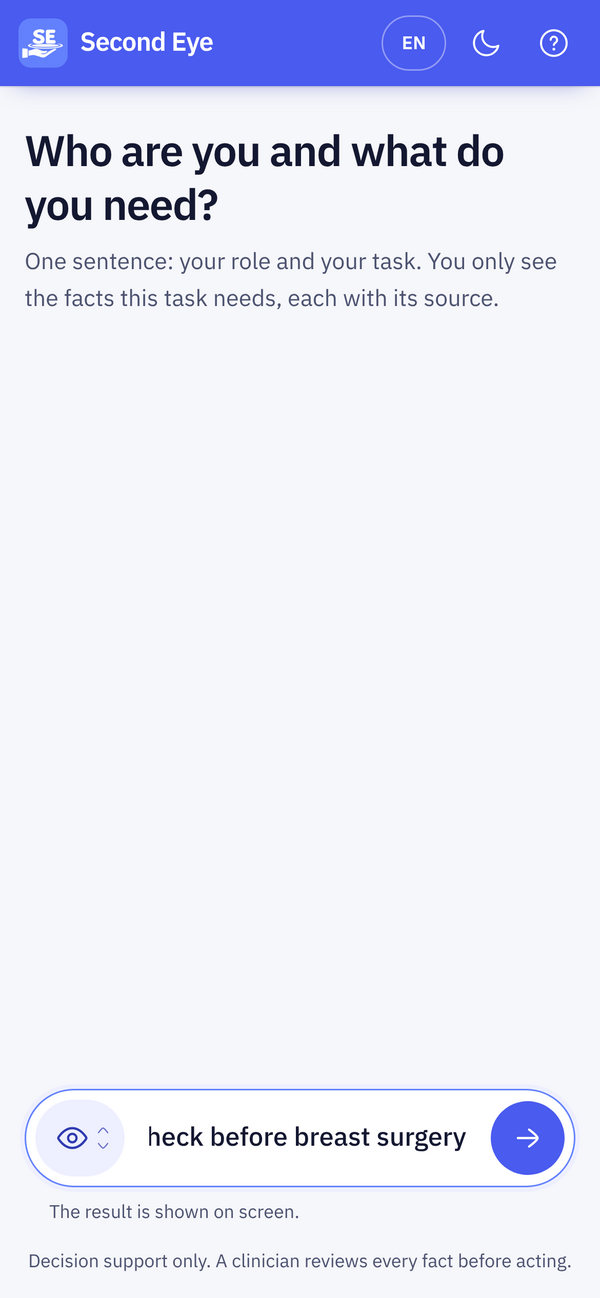
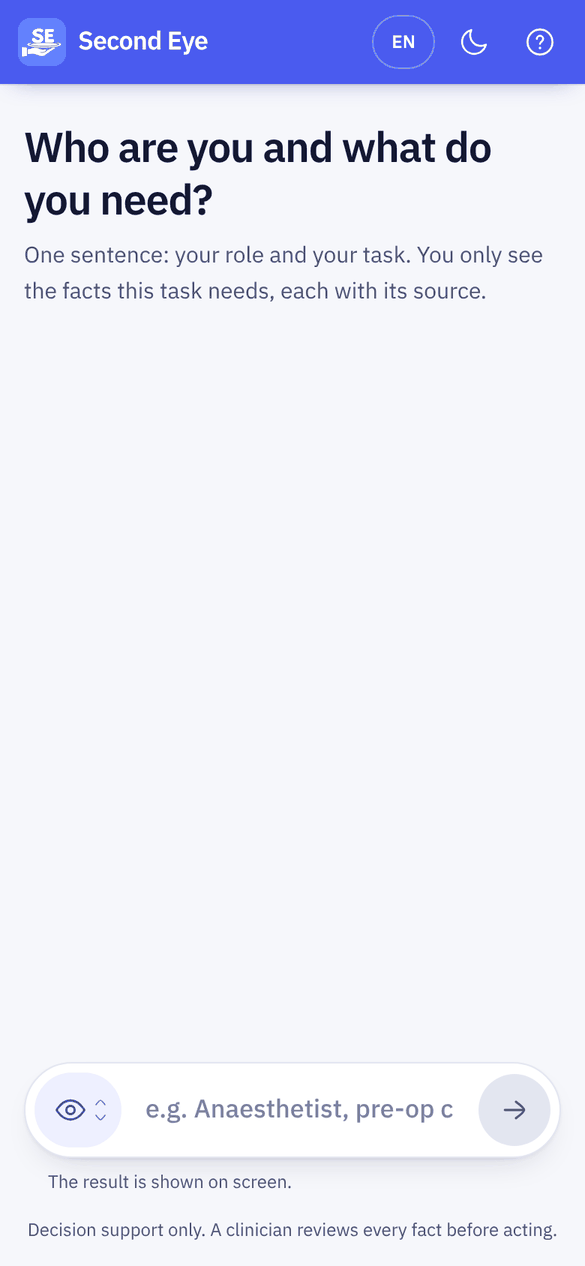
README: current app, new screenshots, current architecture and results
Claude-Session: https://claude.ai/code/session_01DiMMcW31vEVE7AEqAcUciP

diff --git a/README.md b/README.md
@@ -28,7 +28,7 @@ Second Eye answers first, in a sentence or two. Every value comes from the lette
 
 ## About
 
-Second Eye is a task-based reader for clinical records, built at the AIM Austria hackathon (Track 1, clinical documentation). It reads a patient's German letters once, keeps only facts it can quote word for word, and then answers each clinician's task from that verified store. It never writes to the record, and code, not a model, decides what is missing and where the letters disagree.
+Second Eye is a task-based reader for clinical records, built at the AIM Austria hackathon (Track 1, clinical documentation). It reads a patient's German letters once and keeps only facts it can quote word for word. A clinician then types one sentence, such as *"Anaesthetist, pre-op check before quadrantectomy"*, and gets a one- or two-sentence answer with numbered source chips; a tap opens the original letter with the passage highlighted. It never writes to the record, and code, not a model, decides what is missing and where the letters disagree.
 
 **Live app:** <https://second-look-1433.onrender.com>
 
@@ -36,87 +36,80 @@ Second Eye is a task-based reader for clinical records, built at the AIM Austria
 
 A patient's record is a pile of letters, and each letter copies the last one. Errors travel from letter to letter (a left-sided finding becomes right-sided), and facts quietly fall out of the newest letter. An anaesthetist, a surgeon and an emergency physician each need different facts from the same pile, and none of them has time to read eight letters.
 
-## What Second Eye does
+## What you see
 
-Type *"Anaesthetist, pre-op check before breast surgery"* and the screen opens with:
+- **The answer, first.** One or two sentences with numbered sources [1] [2]. Tap a number and the letter opens with the passage highlighted.
+- **"Not documented" when something is missing.** Decided by code, never by a model, and shown in the answer itself ("Not documented in the letters: kidney function").
+- **Contradictions are flagged** next to the value they affect, with both passages one tap away.
+- **"Show more"** opens the key facts, details (trends, medication changes, calculated values) and the history of dated entries.
+- **No task, no data.** A greeting such as "hi" gets only a prompt to describe the task, with no patient information.
 
-- **The answer, first.** One or two sentences with numbered sources [1] [2]. Tap a number and the German letter opens with the passage highlighted.
-- **What is missing, said out loud.** "Not documented", or for a specific question "Nothing found" with the words that were searched, decided by code, never by a model.
-- **Where the record disagrees with itself.** Contradictions between letters with both passages side by side, facts the latest letter dropped, follow-ups that were never closed.
-
-Everything else is one tap away: **Show more** for key facts and the full fact list, **Details** for trends, medication changes and calculated values, **History** for every dated entry. Ask a specific question ("did she ever fall?") and it is answered first. The app runs in English or German, light or dark, and can read the answer aloud.
+English or German, light or dark, and the answer can be read aloud. Without an API key the app still works: the rules path produces the answers from templates.
 
 ## Screens
 
+Phone, 390 × 844. Captured from the running app with no API key (the template answer path) on the organisers' synthetic record; the full letters are not in this repository.
+
 <table>
   <tr>
-    <td width="25%" align="center"><img src="docs/media/screenshots/01-start.png" alt="Start screen: one free-text field, 'Who are you and what do you need?'"><br><sub>One sentence, as typed</sub></td>
-    <td width="25%" align="center"><img src="docs/media/screenshots/02-answer.png" alt="Results: the answer sentence with numbered sources, then Show more"><br><sub>The answer first, with sources</sub></td>
-    <td width="25%" align="center"><img src="docs/media/screenshots/03-more.png" alt="Show more: key facts, contradiction and fact list"><br><sub>Show more: key facts and conflicts</sub></td>
-    <td width="25%" align="center"><img src="docs/media/screenshots/04-source.png" alt="Source viewer with the cited passage highlighted in the German letter"><br><sub>Every value opens its passage</sub></td>
+    <td width="33%" align="center"><img src="docs/media/screenshots/01-start.png" alt="Start screen with the Second Eye logo and a single text box: Who are you and what do you need?"><br><sub>Start: one text box</sub></td>
+    <td width="33%" align="center"><img src="docs/media/screenshots/02-answer-gentamicin.png" alt="Answer to 'Emergency doctor, I'm about to give IV gentamicin': one sentence with two source chips, and 'Not documented in the letters: kidney function'"><br><sub>"Emergency doctor, about to give IV gentamicin"</sub></td>
+    <td width="33%" align="center"><img src="docs/media/screenshots/03-answer-preop.png" alt="Answer to 'Anaesthetist, pre-op check before quadrantectomy': one answer with four numbered source chips and a Show more button"><br><sub>"Anaesthetist, pre-op check before quadrantectomy"</sub></td>
   </tr>
   <tr>
-    <td width="25%" align="center"><img src="docs/media/screenshots/05-details-dark.png" alt="Details in dark mode: weight and creatinine trends with calculated changes"><br><sub>Details: trends and calculations</sub></td>
-    <td width="25%" align="center"><img src="docs/media/screenshots/06-history.png" alt="History: every dated entry, newest first, each with its source"><br><sub>History: every dated entry</sub></td>
-    <td width="25%" align="center"><img src="docs/media/screenshots/07-help-dark.png" alt="Help: questions and answers about the labels"><br><sub>Help: what the labels mean</sub></td>
-    <td width="25%" align="center"><img src="docs/media/screenshots/08-not-authorised.png" alt="Not authorised: a neighbour asking about the patient gets no data"><br><sub>No clinical role, no data (rules path)</sub></td>
+    <td width="33%" align="center"><img src="docs/media/screenshots/05-source.png" alt="Source view: the German letter with the cited medication line highlighted"><br><sub>A source chip opens the letter, passage highlighted</sub></td>
+    <td width="33%" align="center"><img src="docs/media/screenshots/04-show-more.png" alt="Show more: the answer lines, what is not documented, and the key facts, each with a Source link"><br><sub>"Show more": answers, key facts, details</sub></td>
+    <td width="33%" align="center"><img src="docs/media/screenshots/06-no-data.png" alt="Typing 'hi' shows 'Please describe your task' and no patient data"><br><sub>"hi": no task, no patient data</sub></td>
   </tr>
 </table>
 
-<img src="docs/media/screenshots/10-desktop.png" alt="Second Eye on a desktop screen: patient card, the answer with sources, and the facts the task needs" width="100%">
-
-<sub>The real app, fed a set of invented letters for an invented patient; no organiser data is shown.</sub>
+<sub>The film at the top was made earlier on an invented patient; it shows the same answer-first flow, but its answer card predates the current one-sentence answer with source chips.</sub>
 
 ## Results
 
-Measured on the organisers' five situations and 15 questions ([`docs/SUBMISSION.md`](docs/SUBMISSION.md), [`docs/DECISIONS.md`](docs/DECISIONS.md)); reproducible with the commands below.
+Measured on the organisers' five situations and 15 questions and on our own test sets. Sources: [`docs/TESTING.md`](docs/TESTING.md), [`docs/SUBMISSION.md`](docs/SUBMISSION.md), [`docs/DECISIONS.md`](docs/DECISIONS.md). Reproducible with the commands below.
 
-| Metric | Target | Second Eye |
-|---|:---:|:---:|
-| Correct answers | 15 / 15 | **15 / 15**, also inside the key facts and the answer lines |
-| Traceability | 100 % | **100 %** by construction: every fact cites its passage, 0 invariant violations |
-| Invented facts | 0 | **0**: a fact whose quote is not verbatim in its passage never reaches the API, and model-written sentences get every value substituted by code |
-| Contradictions, net of false alarms | ≥ 5 | **5 real, 0 known false alarms**, plus 3 documentation notes kept apart |
-| Slowest screen | < 10 s | rules path **144 ms** at the API, **453 ms** on the phone (measured 30 Oct, before the answer-first screen); with the AI answer a hard **5 s** deadline |
+| Metric | Result |
+|---|---|
+| Official questions | **15 / 15** correct |
+| Facts traced to the letters | **254 / 254**: each fact's quote is verbatim in its passage |
+| Invented facts | **0**: every value in an answer is filled in by code from the letters |
+| Contradictions found | **5** real, 0 known false alarms (plus 3 documentation notes kept apart) |
+| Live speed, with the AI call | median about **2 to 3 s** per answer (hard 4 s deadline, then the rules answer) |
+| Cost with the AI call | about **EUR 0.0002** per answer (Claude Haiku, cached prompt) |
+| Red-team inputs | **604** requests (383 that must get no data, 221 that must get data); rules only: 10 of 383 leak, 5 of 221 wrongly blocked |
+| Held-out questions | **234** questions in 73 situations, written by a team member who never saw the engine; rules only: 136 / 234 |
 
-### Beyond the official questions
-
-| Test | What it checks | Result (rules only, no AI) |
-|---|---|---|
-| Paraphrases ([`eval/paraphrase`](eval/paraphrase)) | 165 wordings: each official question asked 5 ways (terse, long, as a question, with a typo, German-English mix) plus 30 common questions 3 ways | **156 / 165**, official 74 / 75 |
-| Adversarial hold-out ([`eval/synthetic`](eval/synthetic)) | 73 situations, 234 questions, written by a team member who never saw the engine: unusual roles, other languages, injections, non-clinical requests | **136 / 234** (58 %) after the latest engine fix; the first run scored 78 / 227 |
-| Red team ([`eval/redteam`](eval/redteam)) | 604 requests: 383 that must get no data (neighbours, journalists, injections, other patients) and 221 that must | **10 of 383** leak, **5 of 221** wrongly blocked |
-| Synthetic set v1 | 70 situations, 170 questions | 170 / 170, but the rules were fitted on it, so it is a regression check, not a result |
+The other test sets (165 paraphrased questions, 156 / 165 on rules only; a 170-question set the rules were fitted on, used as a regression check) are listed in [`docs/TESTING.md`](docs/TESTING.md).
 
 ## How it works
 
-An offline build reads the eight letters once and freezes a verified fact store. Every request after that only looks things up, so the rules path answers in milliseconds.
+An offline build reads the eight letters once and freezes a verified fact store. Each request then goes through these steps:
+
+1. **Rules gate (0 ms).** Empty input, greetings and injected instructions get no data; a request about another patient is refused.
+2. **One cached Claude Haiku call.** It reads the request against the whole fact store (a cached prompt). It understands the question, picks the facts that answer it, and writes the wording as a template with placeholders such as `{F0247.dose}`.
+3. **In parallel, the rules routing.** The knowledge base picks the role, task and fact slots, and fills the cards behind "Show more".
+4. **Code fills and checks.** Every name, dose, date and side is copied from the letters; only allowed connector words may remain, and every required fact must be placed. A failure, a timeout or an error gives a compact template from the rules instead.
+5. **The answer.** One or two sentences with numbered source chips, contradictions flagged, "Not documented" where the letters are silent.
+
+Without `ANTHROPIC_API_KEY` steps 2 and 4 are skipped and the rules path answers alone.
 
 ```mermaid
 flowchart LR
-    subgraph OFF["Offline · make build · once"]
-        L["8 German letters<br/>organisers' data, git-ignored"] --> P["pipeline/<br/>passages with stable IDs<br/>rule extractors<br/>quote must be verbatim"]
-        P --> C["compare/<br/>contradictions, dropped facts<br/>open follow-ups"]
-        P --> FS[("Verified fact store")]
-        C --> FS
-    end
-    subgraph ON["Online · every request"]
-        Q["Anaesthetist, pre-op check<br/>before breast surgery"] --> RQ["Request check<br/>injections blanked,<br/>other patient refused"]
-        RQ --> R["Rules route<br/>role, task bundles, KB slots"]
-        R --> G{"Gates<br/>clinical role · a task"}
-        G -- "no:<br/>zero patient facts" --> X["Not authorised /<br/>describe your task"]
-        G --> F["Fill<br/>latest value · not documented ·<br/>not applicable · computed values"]
-        FS --> F
-        F --> A["Answer first<br/>answer lines or key facts,<br/>rest behind Show more"]
-        RQ -. "AI on" .-> V2["v2: Haiku picks slots,<br/>writes a sentence template;<br/>code fills every value"]
-        FS --> V2
-        V2 --> A
-    end
-    subgraph HOST["Hosting · Docker on Render"]
-        A --> API["FastAPI<br/>sign-in, PIN lock, audit log"]
-        API --> APP["Phone app<br/>every value opens its passage"]
-    end
+    L["German letters<br/>(offline build)"] --> FS[("Verified<br/>fact store")]
+    Q["One-sentence request"] --> G{"Rules gate"}
+    G -- "no task / refused" --> N["No patient data"]
+    G --> H["One cached Haiku call:<br/>facts + wording template"]
+    G --> R["Rules routing<br/>(in parallel)"]
+    FS --> H
+    FS --> R
+    H --> C["Code fills every value<br/>from the letters and checks it"]
+    R --> C
+    C --> A["1-2 sentences,<br/>numbered sources"]
+    R -. "timeout, error,<br/>no key" .-> A
 ```
+
+### Components
 
 | Component | Path | What it does |
 |---|---|---|
@@ -125,24 +118,24 @@ flowchart LR
 | Routing knowledge base | `rulebook/kb/`, `rulebook/kb_overlay.json` | Written by the medical team: 20 roles, 18 task bundles, 63 fact slots with priorities P1–P3, 22 rules, 21 guideline sources. The overlay adds 21 roles and 55 named topics, each marked `TODO-cite` for review. No patient facts. |
 | Request and gates | `engine/request.py`, `clinical.py`, `intent.py`, `llm_gate.py` | Blanks injected instructions and refuses requests about another patient. Patient data only for a clinical requester with a task; greetings and role-only requests get none. The model can narrow these decisions, never widen them. |
 | Answers | `engine/ask.py`, `keyfacts.py`, `answers.py` | Specific questions answered first, or "Nothing found" with the words searched. Up to 8 key-fact lines, or up to 4 answer lines whose every word is checked against an allowlist built from that line's own facts. |
-| v2 answer | `engine/screen_v2.py`, `understand_v2.py`, `evidence.py`, `cited.py` | With the AI on: Haiku chooses what the question needs and writes a sentence template; code substitutes every name, value, dose, schedule, date and side, checks the glue words and that every required fact is placed, and falls back to a compact template on any failure. |
+| One-call answer | `engine/onecall.py`, `screen_v2.py`, `evidence.py`, `cited.py` | With the AI on: one cached Haiku call picks the facts and writes a sentence template; code substitutes every name, value, dose, schedule, date and side, checks the glue words and that every required fact is placed, and falls back to a compact template on any failure. |
 | API | `backend/app/` | FastAPI: the `Briefing` schema, documents and passages for the source viewer, sign-in and PIN lock, an optional start-up self-test (`EVAL_ON_START`), and it serves the built app. |
 | Phone app | `mobile/` | React 19, Vite, Tailwind 4, Motion. Answer first with numbered sources, Show more, Overview / Details / History, a source viewer that highlights the cited words, English and German, dark mode, read aloud. |
 | Evaluation | `eval/` | Official answers on the fact store and over HTTP, invariants (quotes verbatim, every number inside its quote), key facts, answer lines, v2 answers, paraphrases, hold-out and red team. |
 
 ## Where AI is used, and where it is not
 
-The core is deterministic. The AI layer is **off by default** and needs `SECOND_LOOK_LLM=1` and an `ANTHROPIC_API_KEY`. The model is Claude Haiku 5.5.
+The core is deterministic. The AI layer is **off by default** and needs `SECOND_LOOK_LLM=1` and an `ANTHROPIC_API_KEY`. The model is Claude Haiku 5.5, called once per request.
 
 | Step | How | Guardrails |
 |---|---|---|
 | Extracting facts | Rules, with IBM's extraction as an index; every quote validated in code | No model |
-| Understanding the request | Rules always. With the AI on, Haiku also reads the request in parallel | Rules path: the model may refuse a request or add one task bundle; it never sets the role or opens the record. 2.5 s deadline, then the rules answer alone |
-| Writing the answer (v2, the default when the AI is on) | Haiku returns a sentence **template** with placeholders such as `{F3.dose}` | Code fills every value from the verified facts, checks that only allowlisted glue words remain, that every required fact is placed and that there are at most 2 sentences. Any failure, a timeout or the hard 5 s deadline gives a compact template instead |
+| Gate | Rules, 0 ms: empty input, greetings, injections, another patient | No model |
+| Understanding the question and writing the answer (the default when the AI is on) | One cached Haiku call over the whole fact store returns the fact IDs, "not documented" topics and a sentence **template** with placeholders such as `{F3.dose}` | Code fills every value from the verified facts and checks that only allowlisted glue words remain, that every required fact is placed and that there are at most 2 sentences. Any failure, a timeout (3.5 s for the call, 4 s for the request) or an error gives a compact template instead |
 | Answer lines (rules path) | The rules pick the facts; Haiku may phrase them | Every token must come from that line's facts or a fixed connector list; units, value-date pairs, schedules and sides are checked; otherwise a template |
 | "Not documented", contradictions, calculations, who may see data | Code only | The model never decides any of these |
 
-A budget guard caps spend at €4 and 3,000 calls a day by default (`/health` shows usage), and repeated requests hit a cache. **What is sent to Anthropic when the AI is on:** the request text, the record's concept labels, and for the answer the facts behind it, including each fact's verbatim German quote. No guideline text is sent to a model.
+A budget guard caps spend at €4 and 3,000 calls a day by default (`/health` shows usage), and repeated requests hit a cache. **What is sent to Anthropic when the AI is on:** the request text and the compact fact store (fact IDs, labels and values, not the letters themselves). No guideline text is sent to a model.
 
 ## What every screen guarantees
 
@@ -165,6 +158,13 @@ make backend                                 # API on http://127.0.0.1:8000
 cd mobile && npm ci && npm run dev           # app on http://localhost:5173 (new terminal)
 ```
 
+To serve the built app from the backend, as the Docker image does (`Dockerfile`, `deploy/start.sh`):
+
+```bash
+cd mobile && npm ci && npm run build && cd ..
+SECOND_LOOK_AUTH=0 STATIC_DIR=$PWD/mobile/dist python3 -m uvicorn --app-dir backend app.main:app --port 8000
+```
+
 Sign-in and the PIN lock are on by default; the demo user is in [`security/README.md`](security/README.md) (replace it before any deployment). `VITE_MOCK=1 npm run dev` runs the app on an invented demo patient without a backend.
 
 Environment variables keep the project's earlier internal prefix `SECOND_LOOK_`.
@@ -172,8 +172,7 @@ Environment variables keep the project's earlier internal prefix `SECOND_LOOK_`.
 | Variable | Effect |
 |---|---|
 | `SECOND_LOOK_LLM=1` + `ANTHROPIC_API_KEY` | Turns the AI layer on (model: `SECOND_LOOK_LLM_MODEL`, default `claude-haiku-5-5`) |
-| `SECOND_LOOK_ROUTER=v1` / `v2` | Force the rules path or the v2 answer (default: v2 when the AI layer is on) |
-| `SECOND_LOOK_ANSWERS_LLM=0` | Keep the AI for understanding only; answers use templates |
+| `SECOND_LOOK_ROUTER=v1` / `v2` | Force the rules path or the one-call answer (default: one-call when the AI layer is on). `v2` without a key gives the template answer path |
 | `SECOND_LOOK_LLM_BUDGET_EUR`, `SECOND_LOOK_LLM_MAX_CALLS_PER_DAY` | Daily spend and call caps (defaults 4.0 and 3000) |
 | `SECOND_LOOK_AUTH=0` | Turns sign-in and the PIN lock off (demo only) |
 | `SECOND_LOOK_USERS` | Path to your own users file (salted PBKDF2 hashes) |
@@ -184,7 +183,7 @@ Without the app: `python3 -m engine.query "Anaesthetist, pre-operative check bef
 ### Tests and evaluation
 
 ```bash
-make test                          # 351 tests: engine, gates, answers, v2, knowledge base, compare, eval, security, backend
+make test                          # 357 tests (302 engine, 55 backend): gates, answers, one-call answer, knowledge base, compare, eval, security, backend
 python3 -m eval.run --strict       # 15 official answers; exits 1 unless 15/15 and 0 invariant violations
 python3 -m eval.run_api            # the same over HTTP, with latency
 python3 -m eval.paraphrase.run     # 165 paraphrased questions
@@ -212,21 +211,22 @@ docs/         challenge, plan, decisions, milestones, testing, submission
 
 </details>
 
-## Limitations
+## What does not work yet
 
-- **One record.** Built and measured on the challenge's single patient (eight letters). New patients need the offline build first.
-- **The v2 answer does not check who is asking.** With the AI layer on, v2 refuses empty, greeting, spam and injection-only requests and other patients, but answers a clinical question from anyone. The clinical-role gate applies on the rules path (`SECOND_LOOK_ROUTER=v1`). In a hospital the role would come from the sign-in.
-- **Unfamiliar requests are the weak spot.** The independent hold-out is at 58 % without the AI; unusual roles and requests in other languages fail most often.
+- **Lab tables.** Values in tabular lab reports are not extracted well.
+- **Some letter formats.** Built on one patient's eight letters in one layout; other layouts, scans and new patients need extractor work and the offline build.
+- **A few attack phrasings.** The red team still finds 10 of 383 requests that should get no data, and 5 of 221 that are wrongly blocked (rules only).
+- **Unfamiliar requests.** On the held-out set the rules alone reach 136 / 234; unusual roles and other languages fail most often.
+- **The AI answer does not check who is asking.** It refuses empty, greeting, spam, injection-only and other-patient requests, but answers a clinical question from anyone. The clinical-role gate applies on the rules path (`SECOND_LOOK_ROUTER=v1`). In a hospital the role would come from the sign-in.
 - **The knowledge base is a draft.** Guideline citations marked `TODO-cite` and a full clinician review are pending.
-- **Latency was last measured before the answer-first screen.** The AI answer has a hard 5 s deadline; no live v2 timing is committed yet.
 - **No licence file yet.**
 
 ## Team
 
 Built at the AIM Austria hackathon by a team of developers and clinicians: [Omar](https://github.com/omarjku) (fact store, compare, engine, gates, AI layer, deployment), Zoha (phone app), [Waji](https://github.com/syedwajiulhassan715-rgb) (product plan, questions, key facts, topics, paraphrase eval, end-to-end tests), and Mani with the medical team (routing knowledge base).
 
-## Data
+## Data rule
 
-The patient record is synthetic data provided by IBM Austria for the hackathon and is not redistributed here. Guidelines are referenced by title and link only; no guideline text is reproduced or processed by a model.
+The patient record is synthetic data provided by IBM Austria for the hackathon. The organisers' data is never committed: `data/`, `cache/` and `*.zip` are git-ignored, and the deployed app unpacks it from a secret at start-up. The screenshots show only short excerpts of it. Guidelines are referenced by title and link only; no guideline text is reproduced or processed by a model.
 
 <sub>The film at the top is drawn frame by frame in code and scored with a procedurally generated soundtrack: <a href="https://github.com/omarjku/omarjku/tree/main/motion">source</a>.</sub>
